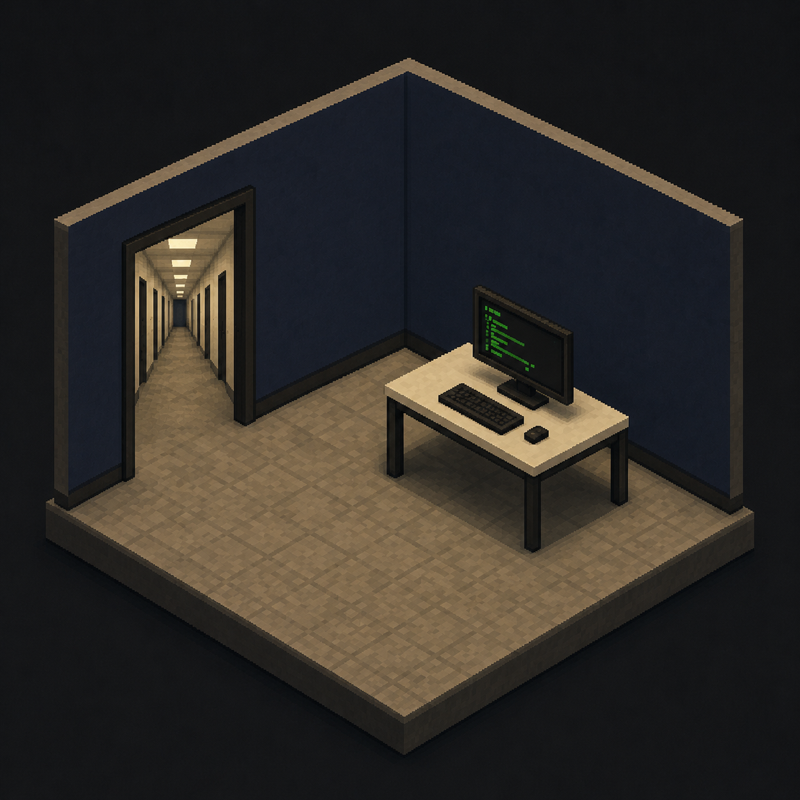
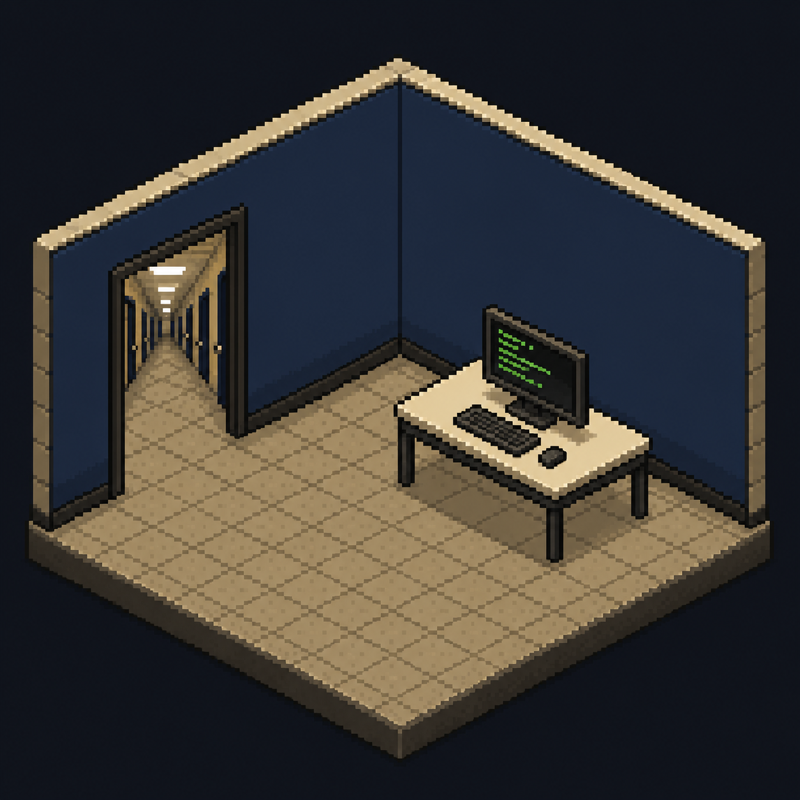
[design] Liminal Office 방 이미지 v2 교체 + 워커 좌표 조정

diff --git a/extension.js b/extension.js
@@ -602,7 +602,7 @@ class UsageViewProvider {
     const rooms = {
       cave: { name: 'Blocky Cave', dark: spriteUri('room-minecraft.png'), light: spriteUri('room-minecraft-light.png'), entry: [0.26, 0.80], desk: [0.50, 0.735] },
       backrooms: { name: 'Backrooms', dark: spriteUri('room-backrooms.png'), entry: [0.28, 0.80], desk: [0.48, 0.72] },
-      liminal: { name: 'Liminal Office', dark: spriteUri('room-liminal.png'), entry: [0.30, 0.78], desk: [0.57, 0.66] }
+      liminal: { name: 'Liminal Office', dark: spriteUri('room-liminal.png'), entry: [0.28, 0.72], desk: [0.56, 0.63] }
     };
     const assetsJson = JSON.stringify({ rooms, npcs })
       .replace(/&/g, '&amp;').replace(/'/g, '&#39;').replace(/</g, '&lt;');
